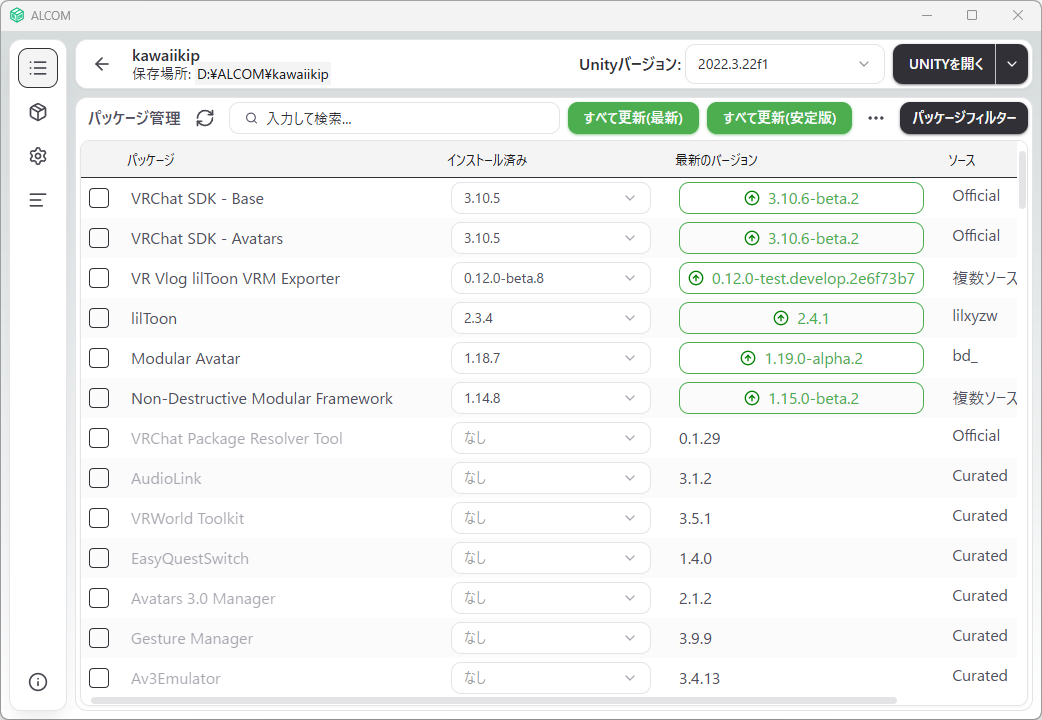
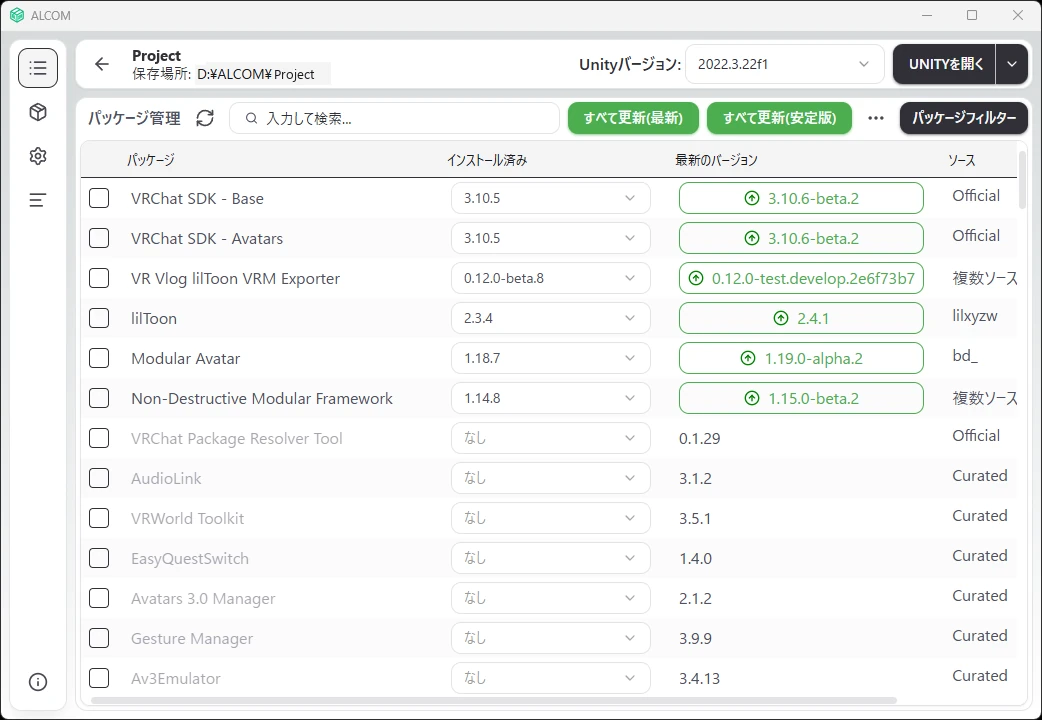
Also replace project names, the account name in paths and the author name in the guide screenshots

diff --git a/Website/index.html b/Website/index.html
@@ -98,7 +98,7 @@
         </div>
       </details>
     </main>
-    <footer class="qrs-footer"><span>VR Vlog</span><nav class="qrs-footer-links" aria-label="規約・公式リンク"><a href="https://vrvlog.fun/terms/" target="_blank" rel="noopener noreferrer">利用規約</a><a href="https://vrvlog.fun/privacy/" target="_blank" rel="noopener noreferrer">プライバシーポリシー</a><a href="https://github.com/VR-Vlog/VR-Vlog-Avatar-Exporter" target="_blank" rel="noopener noreferrer">GitHub ↗</a><a href="https://vrvlog.fun/" target="_blank" rel="noopener noreferrer">アプリのサイト ↗</a></nav><nav class="qrs-license-links" aria-label="ライセンスと画像のクレジット"><a href="https://github.com/VR-Vlog/VR-Vlog-Avatar-Exporter/blob/main/LICENSE" target="_blank" rel="noopener noreferrer">MIT License</a><a href="https://github.com/VR-Vlog/VR-Vlog-Avatar-Exporter/blob/main/ThirdPartyNotices/lilToon.md" target="_blank" rel="noopener noreferrer">lilToonライセンス</a><a href="https://github.com/VR-Vlog/VR-Vlog-Avatar-Exporter/blob/main/ThirdPartyNotices/UniVRM.md" target="_blank" rel="noopener noreferrer">UniVRMライセンス</a></nav></footer>
+    <footer class="qrs-footer"><span>VR Vlog</span><nav class="qrs-footer-links" aria-label="規約・公式リンク"><a href="https://vrvlog.fun/terms/" target="_blank" rel="noopener noreferrer">利用規約</a><a href="https://vrvlog.fun/privacy/" target="_blank" rel="noopener noreferrer">プライバシーポリシー</a><a href="https://github.com/VR-Vlog/VR-Vlog-Avatar-Exporter" target="_blank" rel="noopener noreferrer">GitHub ↗</a><a href="https://vrvlog.fun/" target="_blank" rel="noopener noreferrer">アプリのサイト ↗</a></nav><nav class="qrs-license-links" aria-label="ライセンス"><a href="https://github.com/VR-Vlog/VR-Vlog-Avatar-Exporter/blob/main/LICENSE" target="_blank" rel="noopener noreferrer">MIT License</a><a href="https://github.com/VR-Vlog/VR-Vlog-Avatar-Exporter/blob/main/ThirdPartyNotices/lilToon.md" target="_blank" rel="noopener noreferrer">lilToonライセンス</a><a href="https://github.com/VR-Vlog/VR-Vlog-Avatar-Exporter/blob/main/ThirdPartyNotices/UniVRM.md" target="_blank" rel="noopener noreferrer">UniVRMライセンス</a></nav></footer>
   </div>
 </div>
 </body>

diff --git a/Documentation~/decisions/2026-10-23-guide-generic-names.md b/Documentation~/decisions/2026-10-23-guide-generic-names.md
@@ -1,18 +1,19 @@
 # 導入ガイドのページと画像からアバターの名前を外す
 
 - 日付: 2026-10-23
-- 対象: `Website/index.html`・`Website/styles.css`（`.qrs-hierarchy img`・`.qrs-avatar-credit`）・`Website/assets/guide/unity-avatar-menu.png`・`Website/assets/guide/unity-qr-transfer.png`・`Website/assets/guide/README.md`
+- 対象: `Website/index.html`（フッターの `aria-label` を含む）・`Website/styles.css`（`.qrs-hierarchy img`・`.qrs-avatar-credit`）・`Website/assets/guide/unity-avatar-menu.png`・`Website/assets/guide/unity-qr-transfer.png`・`Website/assets/guide/alcom-install.webp`・`Website/assets/guide/vcc-projects.webp`・`Website/assets/guide/README.md`
 
 ## 背景
 
-QR で転送する導入ガイドのページに、公開リポジトリに書かない決まりのアバターの名前と作者名が入っていた。画像の代替テキスト、フッターの掲載アバターの表記、画像の出典メモ、2 枚の Unity の画面（ウィンドウのタイトル・Hierarchy・Inspector・転送画面の入力欄）に写っていた。手順 1 の画像はページでは Hierarchy の一部だけを見せていたが、ファイルにはアバター本体が写った画面全体が入っていた。
+QR で転送する導入ガイドのページに、公開リポジトリに書かない決まりのアバターの名前と作者名が入っていた。画像の代替テキスト、フッターの掲載アバターの表記、画像の出典メモ、2 枚の Unity の画面（ウィンドウのタイトル・Hierarchy・Inspector・転送画面の入力欄）に写っていた。導入手順の ALCOM と VCC の画面には、アバターの愛称から付けたプロジェクト名と、Windows のユーザー名を含むパスも写っていた。手順 1 の画像はページでは Hierarchy の一部だけを見せていたが、ファイルにはアバター本体が写った画面全体が入っていた。
 
 ## 決定
 
 - 代替テキストの名前を外し、「UnityのHierarchyでアバターを選び、右クリックした画面」とした。
 - 手順 1 の画像は、ページが見せていた範囲（元画像の x 0〜380・y 75〜275）だけに切り出し、シーン名とオブジェクト名を `SampleScene*`・`Avatar` に描き直した。表示の位置合わせ（幅 505% と上へのずらし）は不要になったので、画像をそのまま枠いっぱいに出す。
-- 手順 2 の画像は、ウィンドウのタイトル・アバター欄・名前欄の名前だけを `Avatar` に描き直した。ほかは変えていない。
-- アバター本体がどの画像にも写らなくなったので、フッターの掲載アバターの表記と出典メモの行を消した。
+- 手順 2 の画像は、ウィンドウのタイトル・アバター欄・名前欄を `Avatar` に、作者名欄を `作者A` に描き直した。ほかは変えていない。
+- ALCOM の画面のプロジェクト名と保存場所を `Project` に、VCC の一覧のプロジェクト名を `Project A`〜`Project G` に、パスのユーザー名を `user` に描き直した。
+- アバター本体がどの画像にも写らなくなったので、フッターの掲載アバターの表記と `Website/assets/guide/README.md` の出典メモの行を消した。フッターのリンク群の `aria-label` も「ライセンス」にした。`Website/assets/README.md`（ほかの画像の出典）は対象外で変えていない。
 
 ## 確認
 

diff --git a/Website/assets/guide/README.md b/Website/assets/guide/README.md
@@ -1,8 +1,9 @@
 # Exporter guide screenshots
 
 - vr-vlog-official-logo.png: the original VR Vlog website wordmark, used unchanged.
-- alcom-install.webp, vcc-projects.webp, unity-transfer-menu.png: screenshots supplied or captured for the official guide.
+- unity-transfer-menu.png: a screenshot supplied or captured for the official guide.
+- alcom-install.webp, vcc-projects.webp: screenshots supplied or captured for the official guide. Project names and the user name in paths are replaced with generic words.
 - unity-avatar-menu.png: a screenshot supplied for the official guide, cropped to the Hierarchy and menu shown on the page. Scene and object names are replaced with generic words.
-- unity-qr-transfer.png: replacement screenshot supplied by the site owner. The avatar name in the window title and fields is replaced with a generic word; nothing else is changed.
+- unity-qr-transfer.png: replacement screenshot supplied by the site owner. The avatar name in the window title and fields and the author name are replaced with generic words; nothing else is changed.
 - phone-receive.webp: the app's avatar receipt confirmation screen captured in the Android emulator.
 - vcc-add-repository.webp, vcc-repositories.webp, vcc-installed-version.webp: reference screenshots from the VRChat Creator Companion documentation, clearly credited and linked in the page. Source: https://vcc.docs.vrchat.com/guides/community-repositories/
